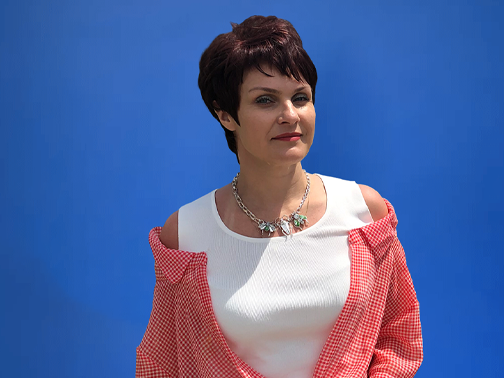
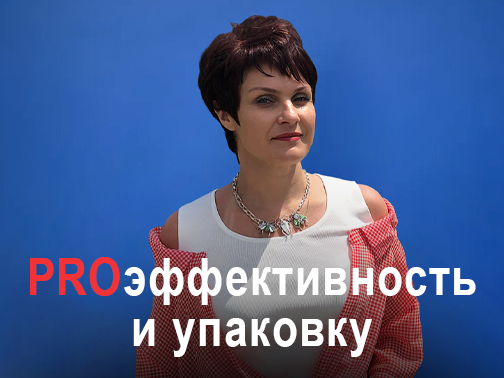
ready

diff --git a/index.html b/index.html
@@ -920,6 +920,7 @@
                     #rec181385196 .tn-elem[data-elem-id="1587039567068"] {
                         color: #ffffff;
                         text-align: center;
+                        margin-top: -15px;
                     }
 
                     #rec181385196 .tn-elem[data-elem-id="1587039567068"] .tn-atom {
@@ -1068,6 +1069,7 @@
                     #rec181385196 .tn-elem[data-elem-id="1587040170233"] .tn-atom {
                         color: #ffffff;
                         font-size: 15px;
+                        white-space: nowrap;
                     }
                 }
 
